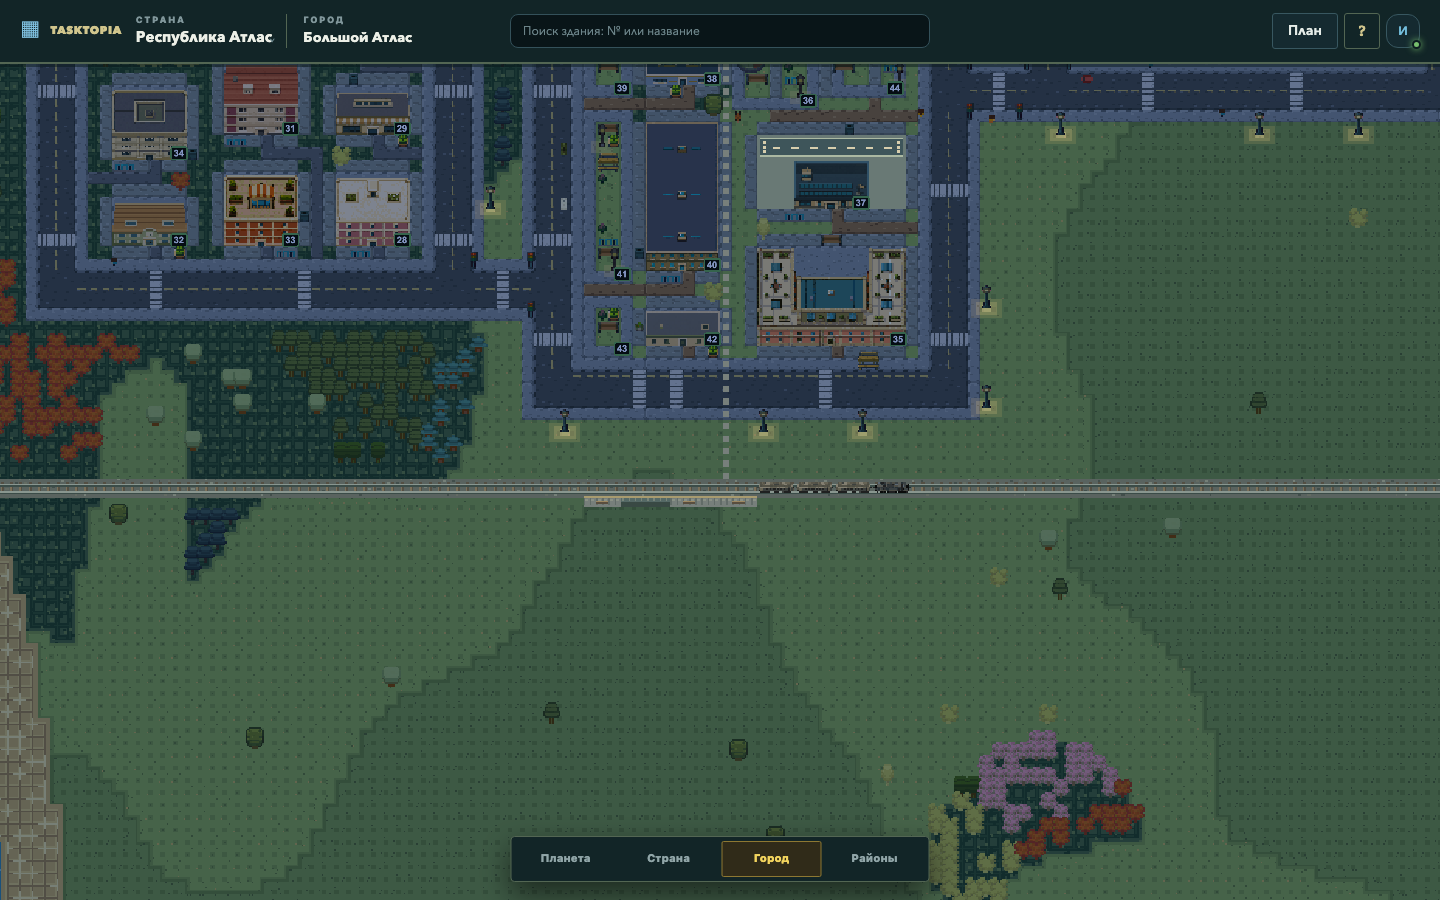
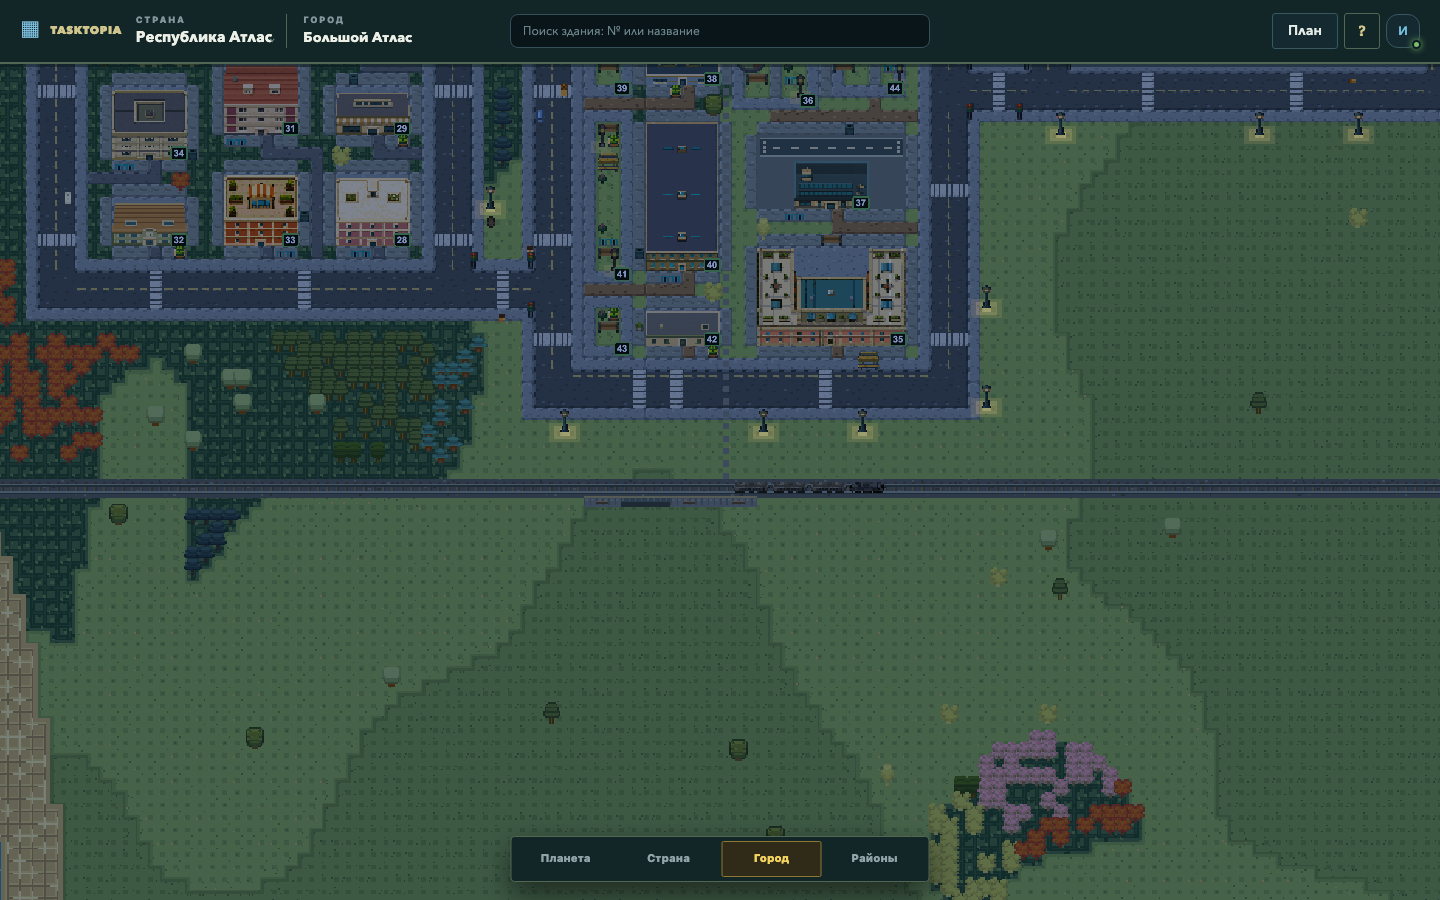
fix: согласовать ночное освещение городского транспорта

Changed region(s): [[0.0, 0.5289, 1.0, 0.5911], [0.5, 0.1244, 0.6562, 0.2489]]

diff --git a/tests/e2e/city-railway.spec.ts b/tests/e2e/city-railway.spec.ts
@@ -36,6 +36,7 @@ for (const stage of [1, 2, 3, 4, 5]) test(`transport construction stage ${stage}
 
 test("completed city station has a moving locomotive and three coupled wagons", async ({ page }, testInfo) => {
   test.skip(process.env.E2E_MAP_LOADING_FIXTURE !== "true", "Dedicated local fixture with completed transport services");
+  await page.clock.setFixedTime(new Date("2026-09-09T09:00:00Z"));
   const errors:string[]=[];
   page.on("pageerror",e=>errors.push(e.message));
   await page.goto("/");
@@ -69,6 +70,28 @@ test("completed city station has a moving locomotive and three coupled wagons", 
   await page.mouse.up();
   await page.mouse.move(50,70);
   await page.evaluate(() => new Promise(resolve => requestAnimationFrame(() => requestAnimationFrame(resolve))));
+  const afterPan = await city.evaluate(el => ({x:Number((el as HTMLElement).dataset.cameraWorldX),y:Number((el as HTMLElement).dataset.cameraWorldY),scale:Number((el as HTMLElement).dataset.renderScale)}));
+  const railPoint = geometry.from.y === geometry.to.y
+    ? {x:geometry.platform.x-20,y:geometry.from.y+.5}
+    : {x:geometry.from.x+.5,y:geometry.platform.y-20};
+  const pixel = {x:Math.round(box.x+box.width/2+(railPoint.x-afterPan.x)*8*afterPan.scale),
+    y:Math.round(box.y+box.height/2+(railPoint.y-afterPan.y)*8*afterPan.scale)};
+  const dayPng = (await page.screenshot()).toString("base64");
+  await page.clock.setFixedTime(new Date("2026-09-09T21:00:00Z"));
+  await page.waitForTimeout(250);
+  const nightPng = (await page.screenshot()).toString("base64");
+  const light = await page.evaluate(async ({dayPng,nightPng,pixel}) => {
+    const brightness = async (png:string) => {
+      const bitmap=await createImageBitmap(new Blob([Uint8Array.from(atob(png),c=>c.charCodeAt(0))],{type:"image/png"}));
+      const canvas=new OffscreenCanvas(bitmap.width,bitmap.height),ctx=canvas.getContext("2d")!;
+      ctx.drawImage(bitmap,0,0); bitmap.close();
+      const p=ctx.getImageData(pixel.x,pixel.y,1,1).data;
+      return p[0]!+p[1]!+p[2]!;
+    };
+    return {day:await brightness(dayPng),night:await brightness(nightPng)};
+  },{dayPng,nightPng,pixel});
+  expect(light.day).toBeGreaterThan(60);
+  expect(light.night).toBeLessThan(light.day*.85);
   await page.screenshot({path:testInfo.outputPath("city-railway.png")});
   await testInfo.attach("railway-geometry",{body:await city.getAttribute("data-city-railway-geometry")??"",contentType:"application/json"});
   await page.getByLabel("Поиск здания по номеру или названию").fill("37");

diff --git a/src/client/components/WorldCanvas.tsx b/src/client/components/WorldCanvas.tsx
@@ -1534,7 +1534,7 @@ export function WorldCanvas({ countryId, chunkSize, worldManifest, viewBounds, f
         if (lightElapsed >= 100) {
           lightElapsed = 0;
           const light = readWorldLighting();
-          for (const layer of [backdropLayer, terrainLayer, surfaceLayer, roadLayer, platformLayer, featurePlatformLayer, worldObjectLayer, flightLayer]) layer.tint = light.tint;
+          for (const layer of [backdropLayer, terrainLayer, surfaceLayer, roadLayer, platformLayer, featurePlatformLayer, worldObjectLayer, flightLayer, railwayGround, airportGround, trainLayer]) layer.tint = light.tint;
           lampGlow.alpha = light.lamps;
           propShadows.alpha = light.shadowAlpha;
           propShadows.x = Math.round(light.shadowOffsetX);
